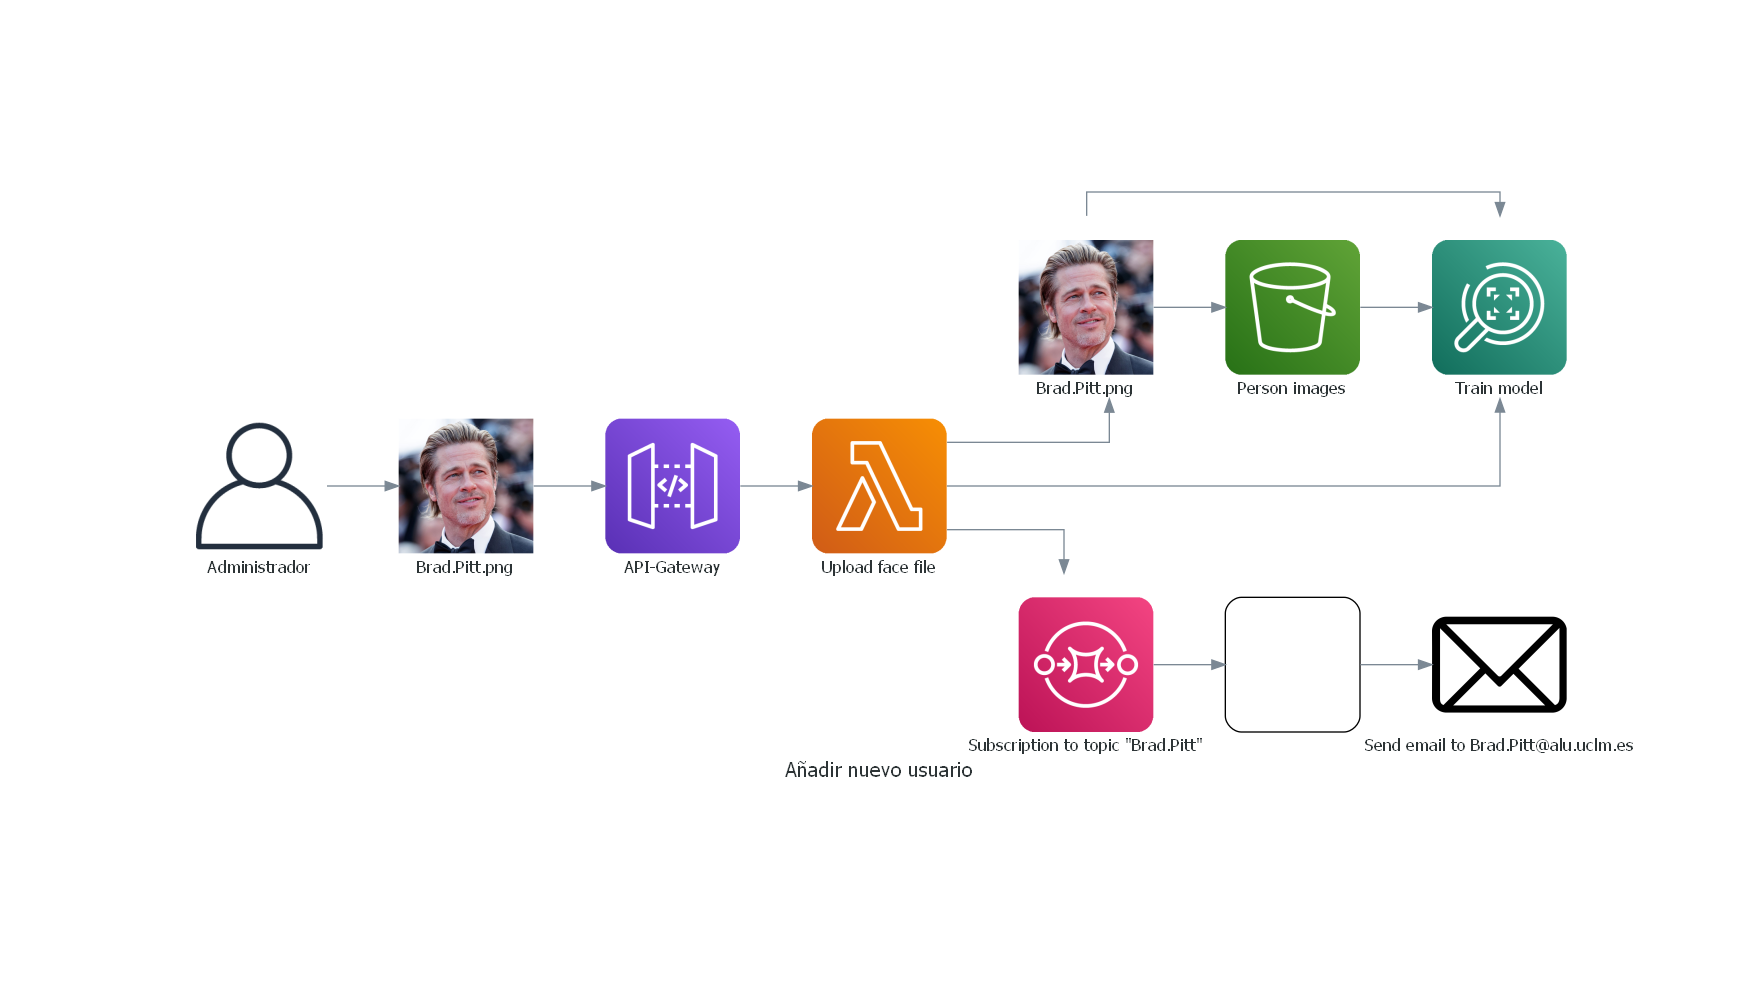
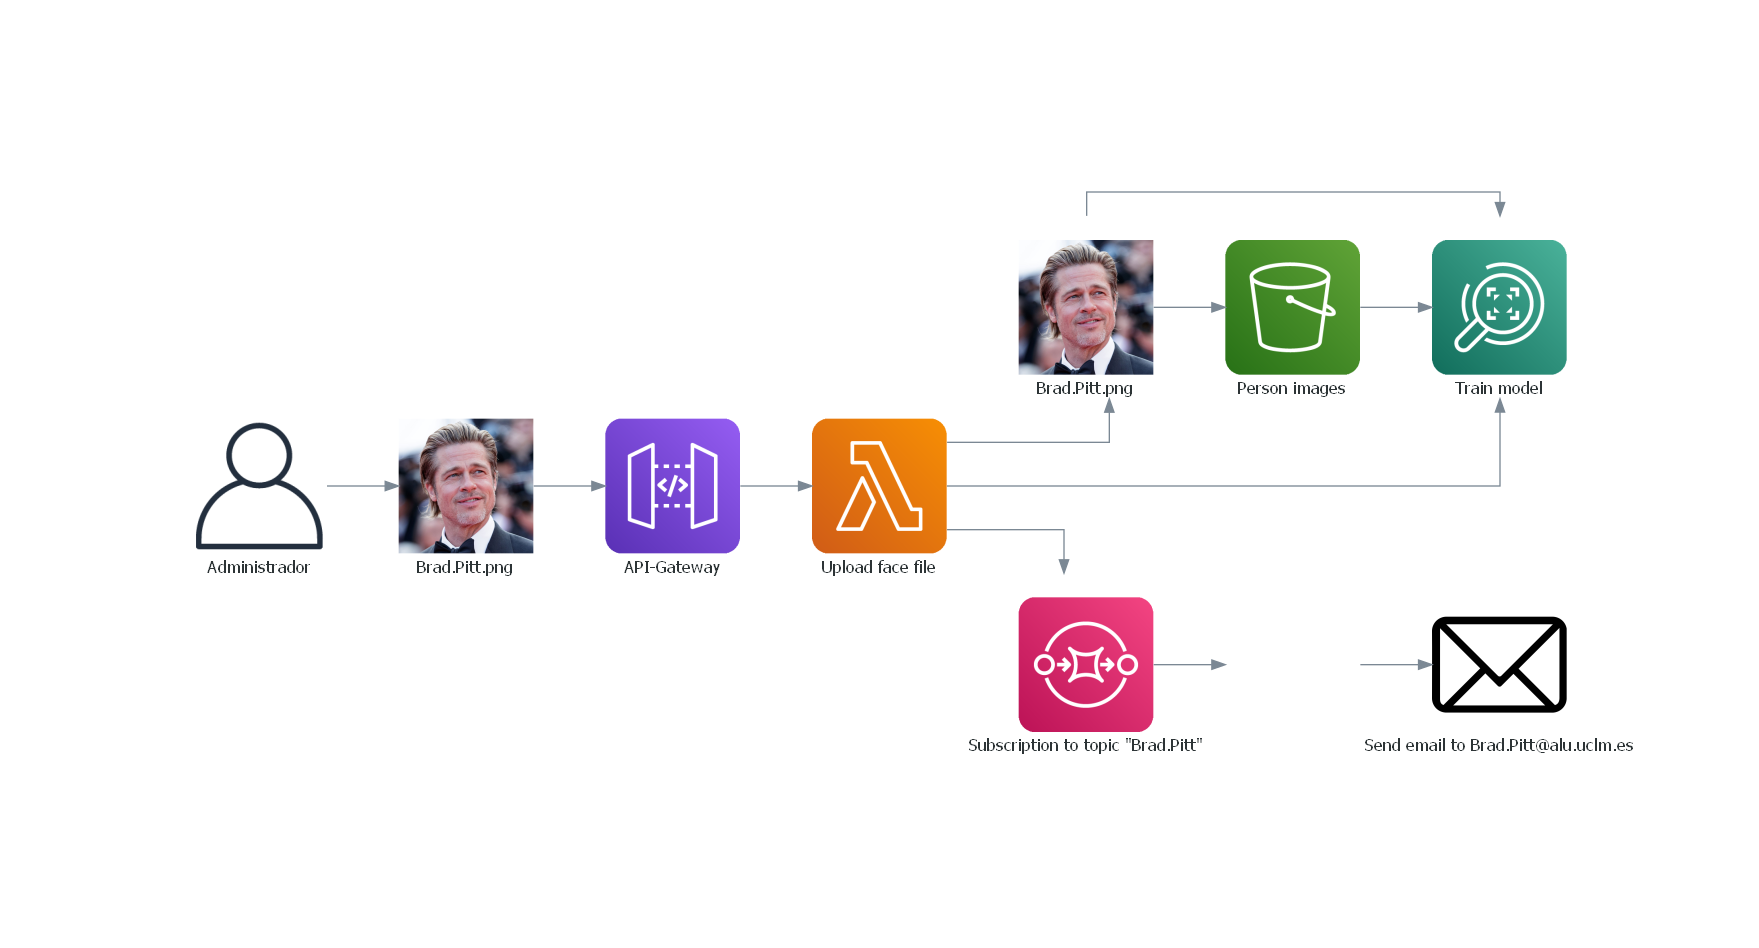
Diagramas

diff --git a/diagrams-article/article.py b/diagrams-article/article.py
@@ -10,7 +10,59 @@ from diagrams.custom import Custom
 from diagrams.aws.ml import Rekognition
 from diagrams.aws.integration import SQS
 
-with Diagram("Añadir nuevo usuario", show=False, filename="./diagrams-article/añadir-nuevo-usuario"):
+with Diagram("", show=False, filename="./diagrams-article/infraestructure-diagram"):
+
+    # Users model
+    users = Users("Usuarios")
+
+    # All the stuff that is on the aws Infraestructure
+    with Cluster('AWS'):
+
+        # User validator
+        #iam = Cognito('User validator')
+        # Api Gateway
+        api_gw = APIGateway("API-Gateway")
+        # All the endpoints are lambda functions
+        with Cluster("Funciones"):
+            workers = [Lambda("Upload video frame"),
+                       Lambda('Upload face file'),
+                       Lambda("See your checks"),
+                       Lambda('See all checks')
+                       ]
+        # All the vs with the trained model
+        rekognition_train = Rekognition('Train model') 
+        
+        rekognition_predict = Rekognition('Predict') 
+                    # The S3 sotorage
+        main_storage = S3('Video frame storage')
+        #storaged_trigger = Lambda("Send video to get faces")
+        # Dynamo DB
+        dynamo = DDB('Processed data')
+
+        faces_img = S3('Person images')
+
+        getvideoMetadata = Lambda('Inform users')
+
+        # SQS
+        queue = SQS('Email message')
+        
+        sub_topic = SQS('Subscription to topic')
+
+    # Relations
+    users << queue 
+    users >> api_gw >> workers
+    
+    workers[0] >> main_storage >> rekognition_predict
+    workers[0] >> rekognition_predict
+    rekognition_predict >> dynamo >>  getvideoMetadata >> queue
+    dynamo << workers[3]
+    workers[1] >> faces_img >> rekognition_train
+    workers[1] >> rekognition_train
+    workers[1] >> sub_topic
+    workers[2:3] >> dynamo
+    
+
+with Diagram("", show=False, filename="./diagrams-article/añadir-nuevo-usuario"):
     # Users model
     users = User("Administrador")
 
@@ -20,7 +72,7 @@ with Diagram("Añadir nuevo usuario", show=False, filename="./diagrams-article/a
     
     email = Custom("Send email to Brad.Pitt@alu.uclm.es", "./custom/email.png")
 
-    vacio = Custom("", "")
+    vacio = Custom("", "./custom/white.png")
 
     api_gw = APIGateway("API-Gateway")
         
@@ -42,65 +94,65 @@ with Diagram("Añadir nuevo usuario", show=False, filename="./diagrams-article/a
     worker >> sub_topic >> vacio >> email
     
     
-with Diagram("Predecir usuario correctamente", show=False, filename="./diagrams-article/predecir-usuario"):
+with Diagram("", show=False, filename="./diagrams-article/predecir-usuario"):
+    
     # Users model
     users = User("Administrador")
 
-    brad = Custom("Brad.Pitt.png", "./custom/train-bp-1-1.png")
+    brad = Custom("", "./custom/si-bp-1-1.png")
     
-    brad2 = Custom("Brad.Pitt.png", "./custom/train-bp-1-1.png")
+    brad2 = Custom("", "./custom/si-bp-1-1.png")
     
     email = Custom("Send email to Brad.Pitt@alu.uclm.es", "./custom/email.png")
+    
+    datos = Custom("Brad.Pitt, Datetime", "./custom/database.png")
 
-    vacio = Custom("", "")
+    vacio = Custom("", "./custom/white.png")
 
     api_gw = APIGateway("API-Gateway")
         
-    worker = Lambda('Upload face file')
+    worker = Lambda('Upload video face')
             
-    rekognition_train = Rekognition('Train model') 
-        
-    faces_img = S3('Person images')
+    rekognition_predict = Rekognition('Predict') 
+    
+    main_storage = S3('Video frame storage')
+
+    dynamo = DDB('Processed data')
+
+    getvideoMetadata = Lambda('Inform user')
 
     # SQS
-    sub_topic = SQS('Subscription to topic "Brad.Pitt"')
+    queue = SQS('Email to topic Brad.Pitt')
 
     # Relations
-    users >> brad >> api_gw >> worker
+    users >> brad >> api_gw >> worker >> brad2 >> main_storage >> rekognition_predict
     
-    worker >> brad2 >> rekognition_train
-    brad2 >> faces_img >> rekognition_train
-    worker >> rekognition_train
-    worker >> sub_topic >> vacio >> email
+    rekognition_predict << brad2
+    email << vacio << queue << getvideoMetadata << dynamo << datos << rekognition_predict
+ 
+
     
     
-with Diagram("Fallo al predecir usuario", show=False, filename="./diagrams-article/fallo-predecir-usuario"):
+with Diagram("", show=False, filename="./diagrams-article/fallo-predecir-usuario"):
     # Users model
     users = User("Administrador")
 
-    brad = Custom("Brad.Pitt.png", "./custom/train-bp-1-1.png")
+    brad = Custom("", "./custom/no-bp-1-1.png")
     
-    brad2 = Custom("Brad.Pitt.png", "./custom/train-bp-1-1.png")
-    
-    email = Custom("Send email to Brad.Pitt@alu.uclm.es", "./custom/email.png")
+    brad2 = Custom("", "./custom/no-bp-1-1.png")
 
-    vacio = Custom("", "")
+    vacio = Custom("", "./custom/white.png")
 
     api_gw = APIGateway("API-Gateway")
         
-    worker = Lambda('Upload face file')
+    worker = Lambda('Upload video face')
             
-    rekognition_train = Rekognition('Train model') 
-        
-    faces_img = S3('Person images')
+    rekognition_predict = Rekognition('Predict') 
+    
+    main_storage = S3('Video frame storage')
 
-    # SQS
-    sub_topic = SQS('Subscription to topic "Brad.Pitt"')
 
     # Relations
-    users >> brad >> api_gw >> worker
+    users >> brad >> api_gw >> worker >> brad2 >> main_storage >> rekognition_predict
     
-    worker >> brad2 >> rekognition_train
-    brad2 >> faces_img >> rekognition_train
-    worker >> rekognition_train
-    worker >> sub_topic >> vacio >> email
+    rekognition_predict << brad2
